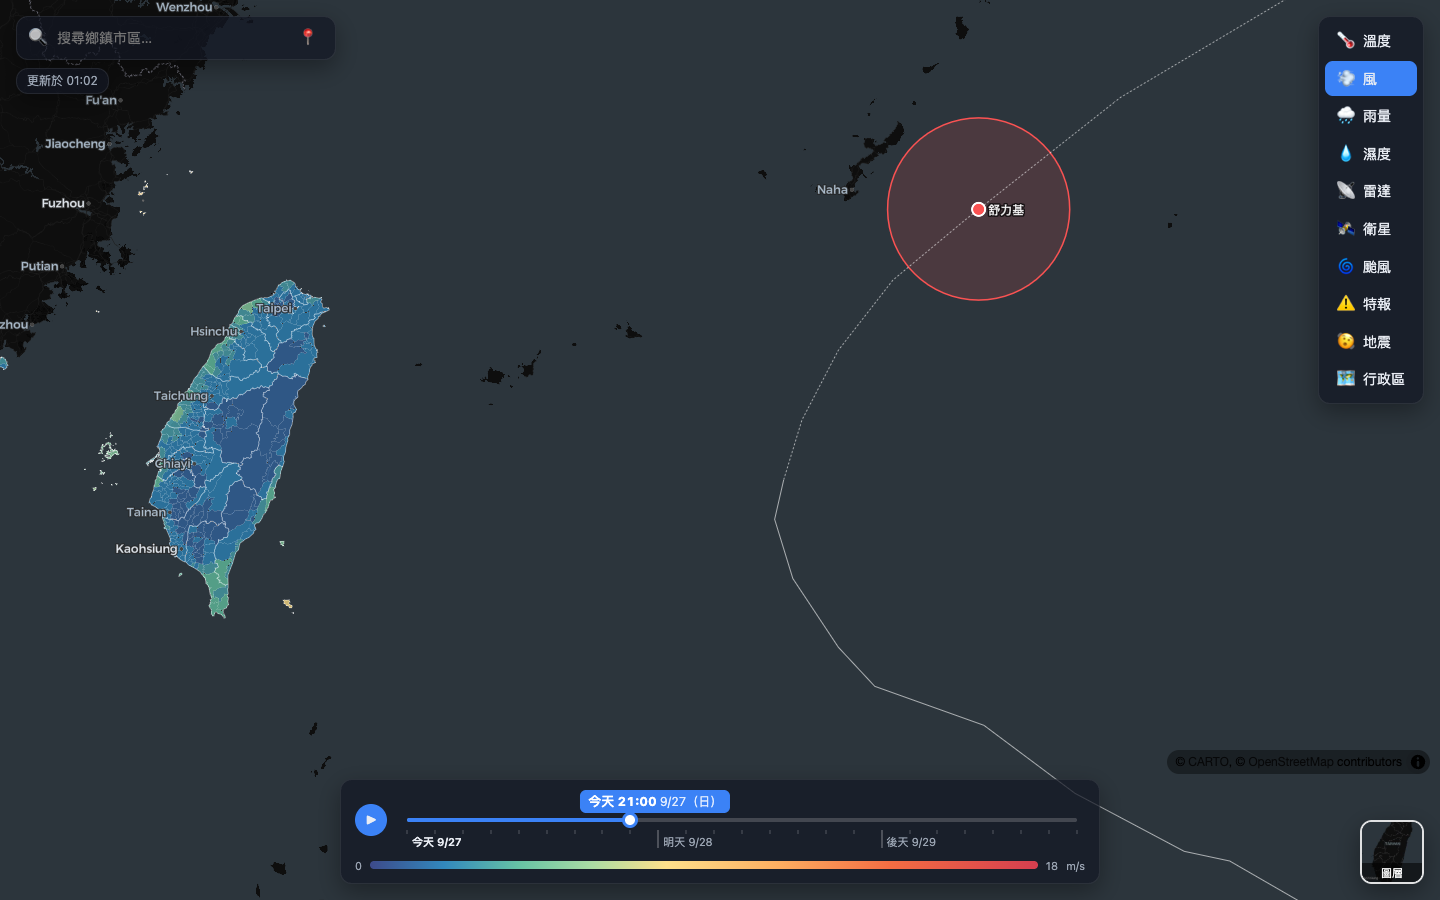
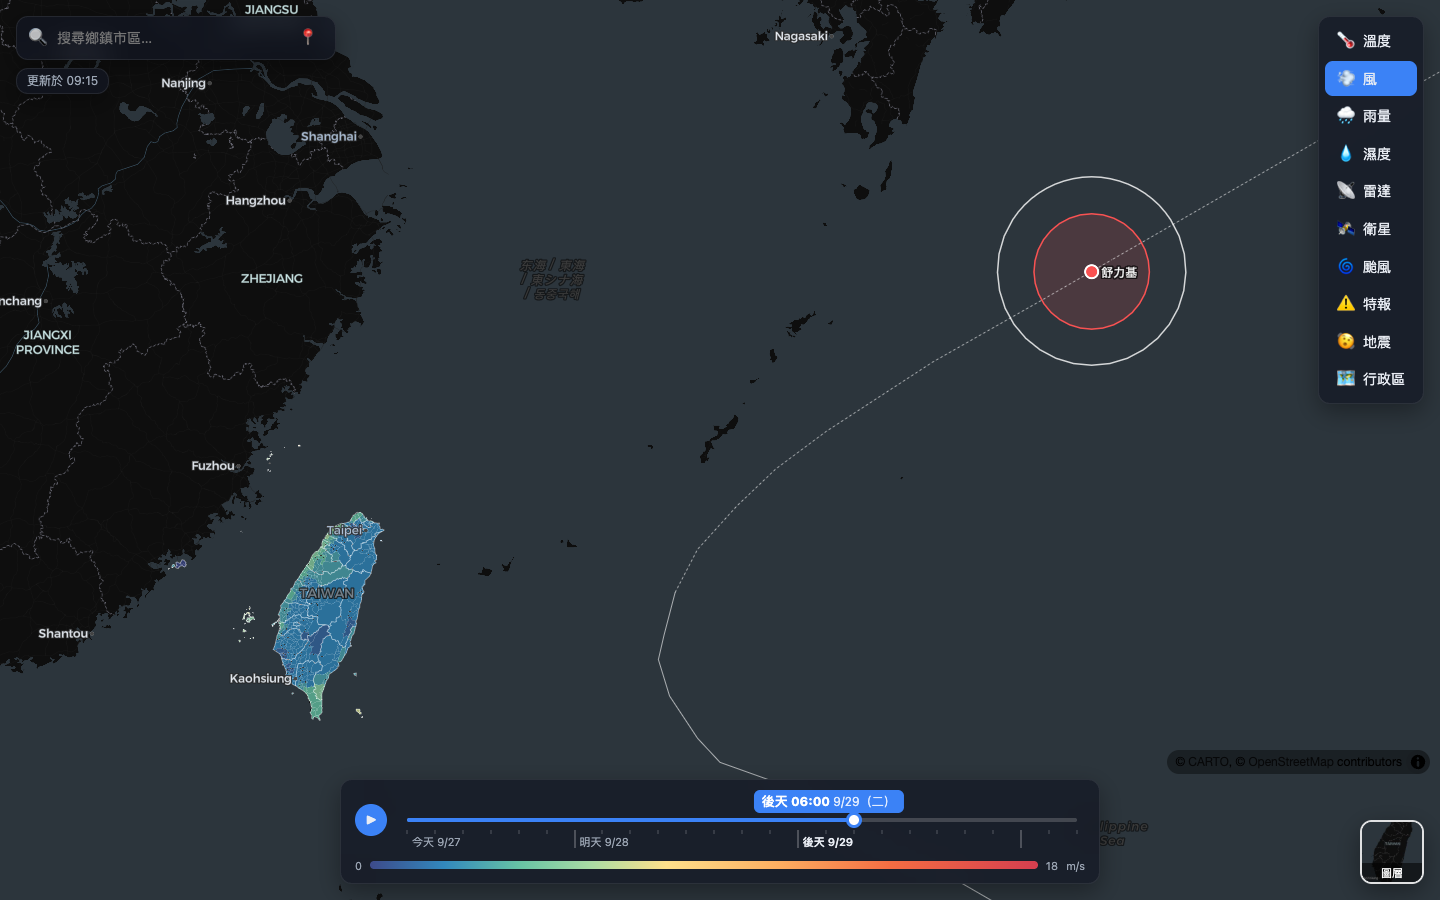
feat(web): move the typhoon along the timeline on the typhoon layer
颱風圖層也掛上 TyphoonFollow（不畫細路徑），中心、名稱、七級風圈
與會變大的 70% 潛勢圓跟著時間軸移動；TyphoonLayer 拿掉固定的目
前位置與七級風圈，路徑點改插在颱風群組之下。天氣圖層上的颱風也
多了潛勢圓。颱風圖層不抓預報格點（DataLayers 與 StatusBadge）；
手機版颱風卡移到時間軸上方。README 說明與截圖更新。

The typhoon layer now mounts TyphoonFollow too (without the thin
tracks), so the centre, name, gale circle and a growing 70% circle
move with the timeline. TyphoonLayer drops its fixed current position
and gale circle, and its track points now sit under the typhoon
group. The typhoon on the weather layers gains the 70% circle as
well. The typhoon layer skips the forecast grids (in DataLayers and
StatusBadge), and on phones the typhoon card sits above the timeline.
README text and screenshots are updated.

diff --git a/frontend/src/components/TyphoonFollow.tsx b/frontend/src/components/TyphoonFollow.tsx
@@ -9,11 +9,16 @@ import { BASEMAPS, inkOf } from '../lib/basemaps'
 const TRACK = 'typhoon-follow'
 const NOW = 'typhoon-follow-now'
 const LABEL = 'typhoon-follow-label'
-const LAYER_IDS = [TYPHOON_FOLLOW_BOTTOM, 'typhoon-follow-wind-line', 'typhoon-follow-past', 'typhoon-follow-forecast', 'typhoon-follow-center', LABEL]
+const LAYER_IDS = [TYPHOON_FOLLOW_BOTTOM, 'typhoon-follow-wind-line', 'typhoon-follow-cone', 'typhoon-follow-past', 'typhoon-follow-forecast', 'typhoon-follow-center', LABEL]
 const role = (r: string): FilterSpecification => ['==', ['get', 'role'], r]
 
-/** 天氣圖層上的颱風：路徑細線，以及跟著預報時間軸移動的中心、名稱與七級風圈；不參與點擊 */
-export default function TyphoonFollow({ map, list, times, pos }: { map: MlMap; list: Typhoon[]; times: string[]; pos: number }) {
+/**
+ * 跟著預報時間軸移動的颱風：中心、名稱、七級風圈與 70% 潛勢圓；不參與點擊。
+ * tracks 為 true 時另畫路徑細線（天氣圖層）；颱風圖層已有自己的路徑，傳 false
+ */
+export default function TyphoonFollow({ map, list, times, pos, tracks }: {
+  map: MlMap; list: Typhoon[]; times: string[]; pos: number; tracks: boolean
+}) {
   const ink = useStore(s => inkOf(s.basemap))
   const dark = useStore(s => BASEMAPS[s.basemap].dark)
   // 時間軸位置上的中心與風圈；重建圖層時帶入目前位置，不必讓時間軸的每一步都重建
@@ -23,17 +28,21 @@ export default function TyphoonFollow({ map, list, times, pos }: { map: MlMap; l
 
   useEffect(() => {
     const before = overlayBefore(map)
-    map.addSource(TRACK, { type: 'geojson', data: toGeoJSON(list) })
     map.addSource(NOW, { type: 'geojson', data: latest.current })
-    // 先加的在下：風圈 → 路徑 → 中心
+    // 先加的在下：風圈 → 潛勢圓 → 路徑 → 中心
     map.addLayer({ id: TYPHOON_FOLLOW_BOTTOM, type: 'fill', source: NOW, filter: role('wind'),
       paint: { 'fill-color': '#fa5252', 'fill-opacity': 0.15 } }, before)
     map.addLayer({ id: 'typhoon-follow-wind-line', type: 'line', source: NOW, filter: role('wind'),
       paint: { 'line-color': '#fa5252', 'line-width': 1.5 } }, before)
-    map.addLayer({ id: 'typhoon-follow-past', type: 'line', source: TRACK, filter: role('track-past'),
-      paint: { 'line-color': ink, 'line-width': 1, 'line-opacity': 0.6 } }, before)
-    map.addLayer({ id: 'typhoon-follow-forecast', type: 'line', source: TRACK, filter: role('track-forecast'),
-      paint: { 'line-color': ink, 'line-width': 1, 'line-opacity': 0.6, 'line-dasharray': [2, 2] } }, before)
+    map.addLayer({ id: 'typhoon-follow-cone', type: 'line', source: NOW, filter: role('cone'),
+      paint: { 'line-color': ink, 'line-width': 1.5, 'line-opacity': 0.8 } }, before)
+    if (tracks) {
+      map.addSource(TRACK, { type: 'geojson', data: toGeoJSON(list) })
+      map.addLayer({ id: 'typhoon-follow-past', type: 'line', source: TRACK, filter: role('track-past'),
+        paint: { 'line-color': ink, 'line-width': 1, 'line-opacity': 0.6 } }, before)
+      map.addLayer({ id: 'typhoon-follow-forecast', type: 'line', source: TRACK, filter: role('track-forecast'),
+        paint: { 'line-color': ink, 'line-width': 1, 'line-opacity': 0.6, 'line-dasharray': [2, 2] } }, before)
+    }
     map.addLayer({ id: 'typhoon-follow-center', type: 'circle', source: NOW, filter: role('center'),
       paint: { 'circle-radius': 6, 'circle-color': '#fa5252', 'circle-stroke-color': '#ffffff', 'circle-stroke-width': 2 } }, before)
     // 名稱放最上層：插在界線之下會變成最下面的文字圖層，Boundaries 重建時會把界線插進中心與名稱之間
@@ -52,7 +61,7 @@ export default function TyphoonFollow({ map, list, times, pos }: { map: MlMap; l
       removeLayerAndSource(map, TRACK)
       removeLayerAndSource(map, NOW)
     }
-  }, [map, list, ink, dark])
+  }, [map, list, ink, dark, tracks])
 
   useEffect(() => {
     map.getSource<GeoJSONSource>(NOW)?.setData(atPos)

diff --git a/frontend/src/components/TyphoonLayer.tsx b/frontend/src/components/TyphoonLayer.tsx
@@ -8,7 +8,7 @@ import { inkOf } from '../lib/basemaps'
 
 const SRC = 'typhoon'
 const POINTS = 'typhoon-points'
-const LAYER_IDS = ['typhoon-cone', 'typhoon-wind-fill', 'typhoon-wind-line', 'typhoon-track-past', 'typhoon-track-forecast', POINTS]
+const LAYER_IDS = ['typhoon-cone', 'typhoon-track-past', 'typhoon-track-forecast', POINTS]
 const role = (r: string): FilterSpecification => ['==', ['get', 'role'], r]
 
 export default function TyphoonLayer({ map, list }: { map: MlMap; list: Typhoon[] }) {
@@ -20,21 +20,18 @@ export default function TyphoonLayer({ map, list }: { map: MlMap; list: Typhoon[
     map.addSource(SRC, { type: 'geojson', data: toGeoJSON(list) })
     map.addLayer({ id: 'typhoon-cone', type: 'line', source: SRC, filter: role('cone'),
       paint: { 'line-color': ink, 'line-opacity': 0.35, 'line-width': 1 } }, before)
-    map.addLayer({ id: 'typhoon-wind-fill', type: 'fill', source: SRC, filter: role('wind'),
-      paint: { 'fill-color': '#fa5252', 'fill-opacity': 0.2 } }, before)
-    map.addLayer({ id: 'typhoon-wind-line', type: 'line', source: SRC, filter: role('wind'),
-      paint: { 'line-color': '#fa5252', 'line-width': 1.5 } }, before)
     map.addLayer({ id: 'typhoon-track-past', type: 'line', source: SRC, filter: role('track-past'),
       paint: { 'line-color': ink, 'line-width': 2 } }, before)
     map.addLayer({ id: 'typhoon-track-forecast', type: 'line', source: SRC, filter: role('track-forecast'),
       paint: { 'line-color': ink, 'line-width': 2, 'line-dasharray': [2, 2] } }, before)
+    // 目前位置、七級風圈與移動的潛勢圓由 TyphoonFollow 依時間軸畫在這些圖層之上
     map.addLayer({ id: POINTS, type: 'circle', source: SRC, filter: role('point'),
       paint: {
-        'circle-radius': ['case', ['get', 'current'], 7, 4],
-        'circle-color': ['case', ['get', 'current'], '#fa5252', ['==', ['get', 'kind'], 'past'], ink, '#0b0e17'],
+        'circle-radius': 4,
+        'circle-color': ['case', ['==', ['get', 'kind'], 'past'], ink, '#0b0e17'],
         'circle-stroke-color': '#ffffff',
-        'circle-stroke-width': ['case', ['get', 'current'], 2, 1],
-      } })
+        'circle-stroke-width': 1,
+      } }, before)
 
     // 每次點擊建新的 popup：沿用同一個時，addTo 期間舊的 closeOnClick 監聽仍會在同一次 click 觸發而立刻關掉它
     let popup: Popup | null = null

diff --git a/frontend/src/components/DataLayers.tsx b/frontend/src/components/DataLayers.tsx
@@ -34,11 +34,12 @@ export default function DataLayers({ map }: { map: MlMap }) {
   const obs = useObservations()
   usePrefetchGrids(times, playing && !!def.future)
   // 位置落在第 i 格與第 i + 1 格之間；第 0 格是「現在」的觀測熱圖，不是預報
-  const gridA = useForecastGrid(i >= 1 ? times[i - 1] ?? null : null)
-  const gridB = useForecastGrid(f > 0 ? times[i] ?? null : null)
+  // 颱風圖層有時間軸但沒有色階，不必抓預報格點
+  const gridA = useForecastGrid(def.future && i >= 1 ? times[i - 1] ?? null : null)
+  const gridB = useForecastGrid(def.future && f > 0 ? times[i] ?? null : null)
   const satellite = useSatellite(layer === 'satellite')
   const clouds = useSatelliteClouds(layer === 'satellite' ? satellite.data?.data ?? null : null, cloudMode)
-  const typhoon = useTyphoons(layer === 'typhoon' || !!def.future)
+  const typhoon = useTyphoons(!!def.timeline)
   const warnings = useWarnings()
   const quakes = useEarthquakes()
 
@@ -70,7 +71,8 @@ export default function DataLayers({ map }: { map: MlMap }) {
       {layer === 'radar' && <RadarLayer map={map} />}
       {layer === 'wind' && !future && obs.data && <WindParticles map={map} obs={obs.data.data} />}
       {layer === 'typhoon' && typhoon.data && <TyphoonLayer map={map} list={typhoon.data.data} />}
-      {def.future && typhoon.data && typhoon.data.data.length > 0 && <TyphoonFollow map={map} list={typhoon.data.data} times={times} pos={q} />}
+      {def.timeline && typhoon.data && typhoon.data.data.length > 0
+        && <TyphoonFollow map={map} list={typhoon.data.data} times={times} pos={q} tracks={layer !== 'typhoon'} />}
       {layer === 'admin' && <AdminLayer map={map} />}
       {layer === 'warning' && warnings.data && <WarningLayer map={map} list={warnings.data.data} />}
       {layer === 'quake' && quakes.data && <QuakeLayer map={map} list={quakes.data.data} />}

diff --git a/frontend/src/lib/typhoon.ts b/frontend/src/lib/typhoon.ts
@@ -48,11 +48,9 @@ export function toGeoJSON(list: Typhoon[]): FeatureCollection {
     for (const f of t.forecast) {
       if (f.radius70) features.push(feature('cone', { type: 'Polygon', coordinates: [circlePolygon(f.lon, f.lat, f.radius70)] }))
     }
-    if (now?.radius15ms) features.push(feature('wind', { type: 'Polygon', coordinates: [circlePolygon(now.lon, now.lat, now.radius15ms)] }))
-    t.past.forEach((f, i) => features.push(feature('point', { type: 'Point', coordinates: pos(f) },
-      { ti, kind: 'past', i, current: i === t.past.length - 1 })))
-    t.forecast.forEach((f, i) => features.push(feature('point', { type: 'Point', coordinates: pos(f) },
-      { ti, kind: 'forecast', i, current: false })))
+    // 目前位置與七級風圈由 followGeoJSON 依時間軸畫出
+    t.past.forEach((f, i) => features.push(feature('point', { type: 'Point', coordinates: pos(f) }, { ti, kind: 'past', i })))
+    t.forecast.forEach((f, i) => features.push(feature('point', { type: 'Point', coordinates: pos(f) }, { ti, kind: 'forecast', i })))
   })
   return { type: 'FeatureCollection', features }
 }

diff --git a/frontend/src/lib/typhoon.test.ts b/frontend/src/lib/typhoon.test.ts
@@ -44,13 +44,17 @@ describe('typhoonBounds', () => {
 })
 
 describe('toGeoJSON', () => {
-  it('emits tracks, points, wind circle and forecast cones', () => {
+  it('emits tracks, points and forecast cones', () => {
     const roles = toGeoJSON([ty]).features.map(f => f.properties!.role)
     expect(roles.filter(r => r === 'track-past')).toHaveLength(1)
     expect(roles.filter(r => r === 'track-forecast')).toHaveLength(1)
     expect(roles.filter(r => r === 'point')).toHaveLength(3)
-    expect(roles.filter(r => r === 'wind')).toHaveLength(1)
     expect(roles.filter(r => r === 'cone')).toHaveLength(1)
+  })
+  it('leaves the current position and its gale circle to the timeline', () => {
+    const { features } = toGeoJSON([ty])
+    expect(features.filter(f => f.properties!.role === 'wind')).toEqual([])
+    for (const f of features.filter(f => f.properties!.role === 'point')) expect(f.properties).not.toHaveProperty('current')
   })
   it('starts the forecast track at the current position', () => {
     const f = toGeoJSON([ty]).features.find(f => f.properties!.role === 'track-forecast')!

diff --git a/frontend/src/components/StatusBadge.tsx b/frontend/src/components/StatusBadge.tsx
@@ -2,6 +2,7 @@ import {
   useEarthquakes, useForecastGrid, useFutureTimes, useObservations, useRadar, useRadarFrames, useSatellite, useSatelliteClouds, useTyphoons, useWarnings,
 } from '../api'
 import { useStore } from '../store'
+import { LAYERS } from '../lib/layers'
 import { fmtClock } from '../lib/format'
 
 export default function StatusBadge() {
@@ -22,7 +23,8 @@ export default function StatusBadge() {
   const warnings = useWarnings()
   const quakes = useEarthquakes()
   const times = useFutureTimes()
-  const grid = useForecastGrid(t > 0 ? times[t - 1] ?? null : null)
+  // 颱風圖層有時間軸但顯示的是颱風資料的更新時間，不必抓預報格點
+  const grid = useForecastGrid(LAYERS[layer].future && t > 0 ? times[t - 1] ?? null : null)
 
   const q = isQuake ? quakes : isWarning ? warnings : isTyphoon ? typhoon : isSatellite ? satellite : isRadar ? radar : t > 0 ? grid : obs
   if (q.isError || radarFrames.at(-1)?.isError || clouds.isError) return <div className="badge glass warn">暫時無法取得資料</div>

diff --git a/frontend/src/styles.css b/frontend/src/styles.css
@@ -171,4 +171,6 @@ button:disabled { opacity: 0.4; cursor: default; }
   /* 手機的軸較短，刻度只寫今天／明天，完整日期看右側 */
   .day-label .md { display: none; }
   .card { top: auto; left: 0; right: 0; bottom: 0; width: auto; max-height: 62%; border-radius: 16px 16px 0 0; padding-bottom: calc(16px + env(safe-area-inset-bottom)); }
+  /* 颱風卡關不掉，而颱風圖層有時間軸：卡片移到時間軸上方，兩者都看得到 */
+  .card.typhoon-card { left: var(--gap); right: var(--gap); bottom: calc(var(--gap) + var(--timeline-h, 110px) + 8px + env(safe-area-inset-bottom)); max-height: 40%; border-radius: 16px; padding-bottom: 16px; }
 }

diff --git a/frontend/src/components/TyphoonCard.tsx b/frontend/src/components/TyphoonCard.tsx
@@ -5,7 +5,7 @@ export default function TyphoonCard() {
   const q = useTyphoons(true)
   const list = q.data?.data ?? []
   return (
-    <aside className="card glass" aria-label="颱風資訊">
+    <aside className="card glass typhoon-card" aria-label="颱風資訊">
       <header><h2>🌀 熱帶氣旋</h2></header>
       {q.isLoading && <div className="skeleton" />}
       {q.isError && <p>無法載入颱風資料，請稍後再試。</p>}

diff --git a/README.md b/README.md
@@ -16,11 +16,11 @@
 |---|---|
 | ![鄉鎮預報](docs/screenshots/forecast.png) | <img src="docs/screenshots/mobile.png" width="260" alt="手機版"> |
 
-| 颱風路徑（過去／預測路徑、暴風圈、潛勢圓，點路徑點看數值） | 颱風（手機版） |
+| 颱風路徑（約 +48 小時：中心、暴風圈與 70% 潛勢圓沿預測路徑移動，點路徑點看數值） | 颱風（手機版） |
 |---|---|
 | ![颱風](docs/screenshots/typhoon.png) | <img src="docs/screenshots/typhoon-mobile.png" width="260" alt="颱風手機版"> |
 
-| 颱風跟著時間軸移動（風圖層 +24 小時；中心與七級風暴風圈沿預測路徑內插） |
+| 颱風跟著時間軸移動（風圖層約 +48 小時；中心、七級風暴風圈與 70% 潛勢圓沿預測路徑內插） |
 |---|
 | ![颱風跟隨時間軸](docs/screenshots/typhoon-follow.png) |
 
@@ -47,14 +47,14 @@
 - **十種圖層**：溫度、風、雨量、濕度、雷達、衛星、颱風、特報、地震、行政區
 - **即時熱圖**：全台自動站＋人工站觀測，以反距離權重（IDW）內插成連續色階，遠離測站處淡出
 - **風場粒子**：依測站風向風速內插的風場驅動粒子動畫
-- **時間軸**：拖曳或播放未來 72 小時（3 小時一格），切換為鄉鎮預報分區著色；播放時在時段間線性內插、顏色平滑漸變，「現在」與預報之間淡入淡出，停下時對齊整點時段；整條日期刻度可拖曳，跟隨標籤顯示日期與時間；雷達另有過去 3 小時的回放時間軸，颱風、行政區等無時間序列的圖層不顯示時間軸
+- **時間軸**：拖曳或播放未來 72 小時（3 小時一格），切換為鄉鎮預報分區著色；播放時在時段間線性內插、顏色平滑漸變，「現在」與預報之間淡入淡出，停下時對齊整點時段；整條日期刻度可拖曳，跟隨標籤顯示日期與時間；雷達另有過去 3 小時的回放時間軸，特報、地震、行政區等無時間序列的圖層不顯示時間軸
 - **縣市／鄉鎮界線**：所有圖層上疊加縣市界（含海岸線）與鄉鎮界，鄉鎮界放大後才漸漸浮現
 - **逐層選取**：在地圖上先點選縣市（框起並縮放過去），在該縣市內再點才選到鄉鎮；以鄉鎮多邊形判定點擊位置，搜尋框下方的麵包屑（`← 全台 › 縣市 › 鄉鎮`）可退回上一層
 - **行政區圖層**：只顯示縣市／鄉鎮界線與中文名稱，不疊天氣色階；點選的縣市或鄉鎮整塊填滿藍色，選到鄉鎮時同縣市其他鄉鎮淡淡上色
 - **鄉鎮查詢**：搜尋、定位或逐層點選鄉鎮，顯示目前天氣、72 小時溫度曲線與一週預報
 - **雷達回放**：過去 3 小時、每 10 分鐘一格的雷達回波格點（CWA 歷史 API `O-A0059-001`），server 依 CWA 官方色標畫成 PNG 並長期快取；可播放、拖曳與鍵盤切格，播到「現在」停 1.5 秒再重播，下方附 0–65 dBZ 圖例
 - **雷達／衛星**：經緯度等距影像逐列重投影為 Web Mercator 後疊圖；衛星紅外線雲圖可切換「色調強化」（依雲頂溫度由灰、藍、綠、黃到紅紫上色）或白色半透明雲層
-- **颱風**：活動中熱帶氣旋的過去／預測路徑、七級風暴風圈與 70% 潛勢圓，點路徑點看該時刻數值；切入時自動縮放到台灣與整條路徑；溫度、風、雨量、濕度圖層上也會畫出颱風路徑，中心與七級風暴風圈跟著預報時間軸移動
+- **颱風**：活動中熱帶氣旋的過去／預測路徑、七級風暴風圈與 70% 潛勢圓，點路徑點看該時刻數值；切入時自動縮放到台灣與整條路徑；拖曳或播放預報時間軸時，颱風中心、七級風暴風圈與 70% 潛勢圓沿預測路徑移動，潛勢圓隨預報時間變大；溫度、風、雨量、濕度圖層上也會畫出颱風路徑與同樣移動的颱風
 - **特報**：發布中的縣市天氣特報依最嚴重種類為縣市著色（颱風警報、大豪雨、豪雨、大雨、低溫、強風、濃霧），資訊卡依種類列出縣市與有效時間；左上角徽章在任何圖層都提示目前特報，點了切到特報圖層；在溫度、風、雨量、濕度、雷達、衛星、颱風圖層上，有特報的縣市以同色描邊標示，時間軸拖到未來預報時淡出
 - **地震**：合併顯著有感與小區域有感地震報告，震央依規模與最大震度畫成圓點；選取的地震以星號標示並依震度為各測站上色，資訊卡列出各縣市震度（可展開看測站）與近期地震清單；一小時內發生地震時，左上角徽章在任何圖層都會提示，點了切到地震圖層
 - **底圖切換**：右下角可切換深色、淺色、街道、衛星（Sentinel-2 無雲影像＋國土測繪中心正射影像）與地形（OpenTopoMap）；淺色底圖上的界線、颱風路徑與風粒子自動改用深色
